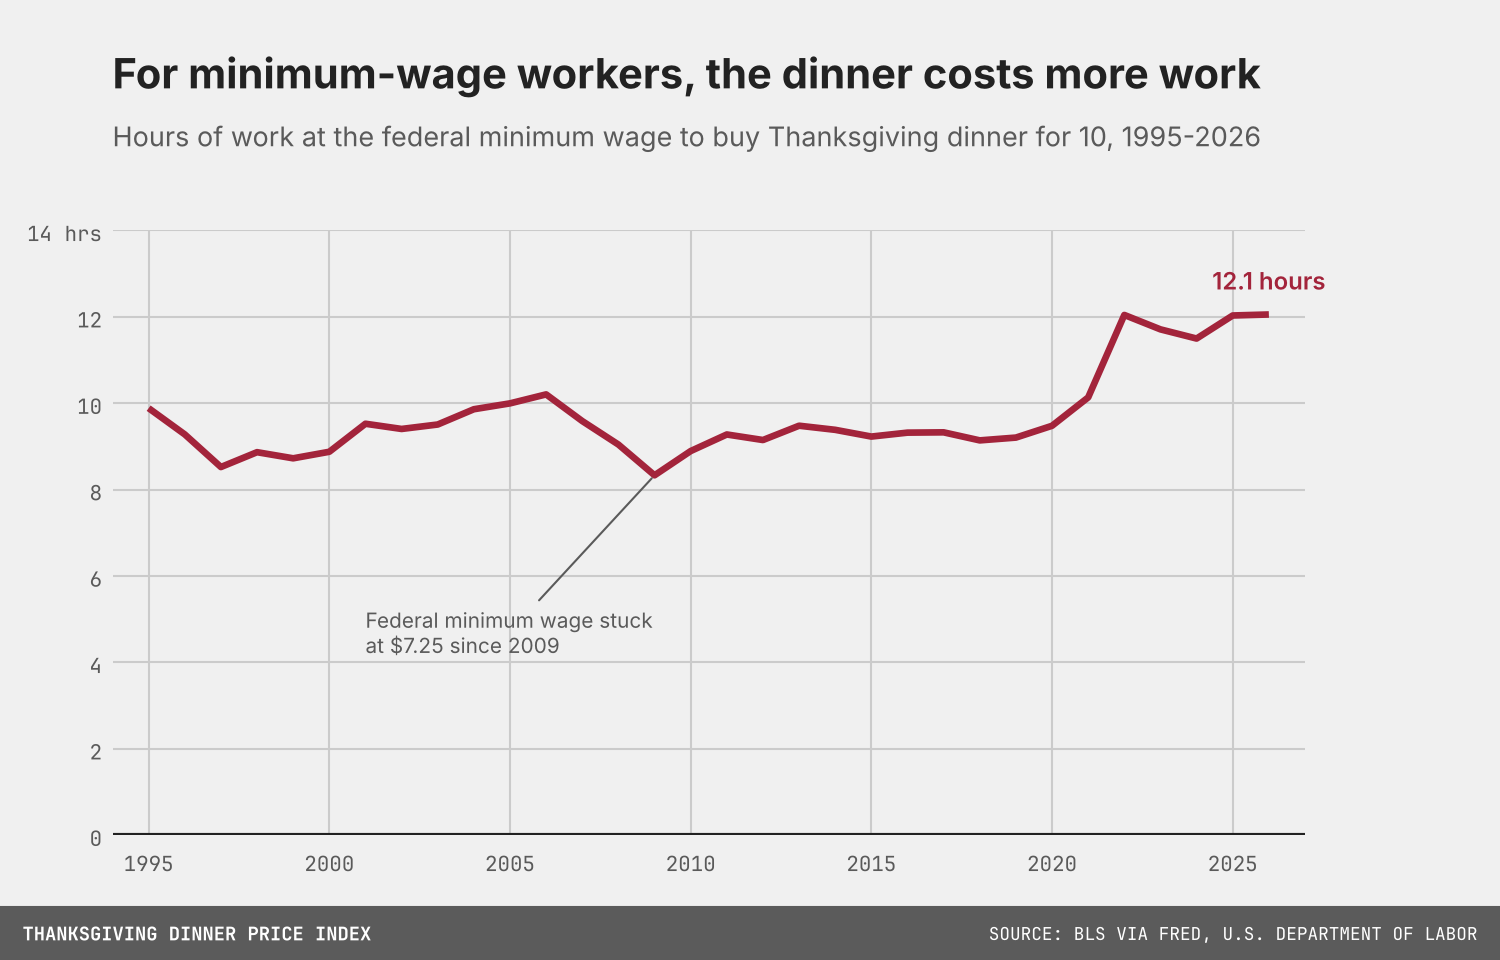
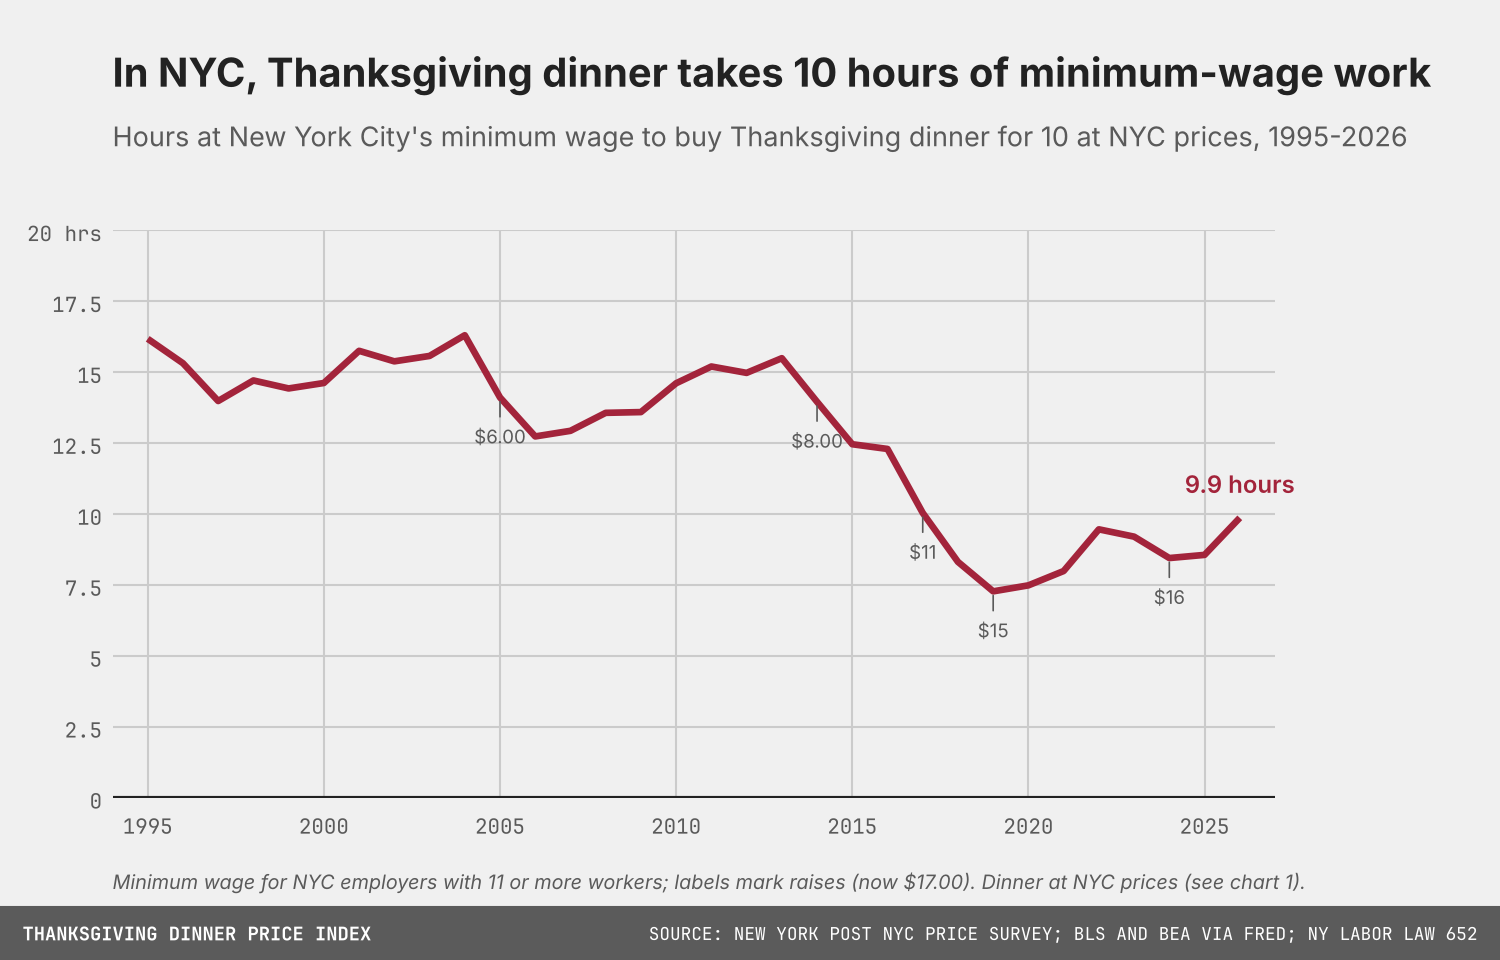
Chart 7: hours of work at New York City's minimum wage, NYC prices
Reapplies the NYC minimum wage series (federal/NY State rates plus NYC's
2017-2023 schedule under NY Labor Law 652) with the dinner now priced
from the New York Post survey: 9.9 hours in 2026. README updated.

Claude-Session: https://claude.ai/code/session_015UrztArHpAPPRd1ooHHwA1

diff --git a/deep_dive.py b/deep_dive.py
@@ -124,11 +124,25 @@ print(table[[c for c in table.columns if c.startswith("dinner")]].round(1).to_st
 minwage = fred("FEDMINNFRWG", 10)
 wage = pd.DataFrame({"dinner": dinner, "federal_min_wage": minwage.reindex(dinner.index)})
 wage["hours_at_federal_min"] = wage.dinner / wage.federal_min_wage
+# New York City minimum wage in October: the higher of the federal and New York State
+# rates (FRED STTMINWGNY), except 2017-2023, when NYC's rate for employers with 11+ workers
+# (NY Labor Law 652) was above the statewide figure FRED reports: $11 from Dec 31, 2016,
+# $13 from Dec 31, 2017, $15 from Dec 31, 2018. Small NYC employers phased in a year later.
+ny_state = fred("STTMINWGNY", 1)
+NYC_OVERRIDE = {2017: 11.00, 2018: 13.00, 2019: 15.00, 2020: 15.00, 2021: 15.00, 2022: 15.00, 2023: 15.00}
+nyc_min = pd.concat([minwage, ny_state.reindex(minwage.index)], axis=1).max(axis=1)
+for yr, v in NYC_OVERRIDE.items():
+    nyc_min[yr] = v
+wage["nyc_min_wage"] = nyc_min.reindex(wage.index)
+wage["dinner_nyc"] = summary["basket_cost_nyc"].reindex(wage.index)
+wage["hours_at_nyc_min"] = wage.dinner_nyc / wage.nyc_min_wage
 wage.round(2).to_csv(OUT / "deep_dive_wages.csv")
 print("\n== E. Low-wage workers ==")
 print(wage.loc[[1995, 2000, 2005, 2009, 2010, 2015, 2019, 2021, 2022, 2023, 2024, 2025, 2026]].round(2).to_string())
 print("hours at federal minimum, 2026 rank (1 = most hours):",
       int(wage.hours_at_federal_min.rank(ascending=False).loc[2026]), "of", wage.hours_at_federal_min.notna().sum())
+print("hours at NYC minimum, 2026 rank (1 = most hours):",
+      int(wage.hours_at_nyc_min.rank(ascending=False).loc[2026]), "of", wage.hours_at_nyc_min.notna().sum())
 
 # ---------------- F. Prices, rent and the minimum wage ----------------
 cpi_m = fred("CPIAUCSL")
@@ -202,18 +216,23 @@ cs.finish(fig, "The squeeze is widest at the bottom",
           "BLS Consumer Expenditure Survey via FRED", OUT / "6_who_is_squeezed.png",
           note="Right panel omits married couples with young children (much higher incomes and a one-year spike in 2019).")
 
-w = wage.dropna(subset=["hours_at_federal_min"])
-h = w.hours_at_federal_min
+w = wage.dropna(subset=["hours_at_nyc_min"])
+h = w.hours_at_nyc_min
 fig, ax = cs.figure()
-ax.set_ylim(0, 2 * int(np.ceil(h.max() * 1.15 / 2)))
+fig.subplots_adjust(right=0.85)
+ax.set_ylim(0, 2 * int(np.ceil(h.max() * 1.2 / 2)))
 ax.set_xlim(h.index.min() - 1, h.index.max() + 1)
 ax.plot(h.index, h, color=cs.RED)
 ax.annotate(f"{h.iloc[-1]:.1f} hours", (h.index[-1], h.iloc[-1]), xytext=(0, 12), textcoords="offset points",
             ha="center", color=cs.RED, fontweight="semibold")
-ax.annotate("Federal minimum wage stuck\nat $7.25 since 2009", (2009, h[2009]), xytext=(2001, h.max() * 0.35),
-            fontsize=10, color=cs.MUTED, arrowprops=dict(arrowstyle="-", color=cs.MUTED, lw=1))
+# Mark NYC minimum wage steps
+for yr, label in [(2005, "$6.00"), (2014, "$8.00"), (2017, "$11"), (2019, "$15"), (2024, "$16")]:
+    ax.annotate(f"{label}", (yr, h[yr]), xytext=(0, -22), textcoords="offset points", ha="center",
+                fontsize=9, color=cs.MUTED, arrowprops=dict(arrowstyle="-", color=cs.MUTED, lw=0.8))
 cs.baseline(ax, 0)
 cs.unit_on_top(ax, suffix=" hrs")
-cs.finish(fig, "For minimum-wage workers, the dinner costs more work",
-          f"Hours of work at the federal minimum wage to buy Thanksgiving dinner for 10, {h.index.min()}-{h.index.max()}",
-          "BLS via FRED, U.S. Department of Labor", OUT / "7_low_wage.png")
+cs.finish(fig, f"In NYC, Thanksgiving dinner takes {h.iloc[-1]:.0f} hours of minimum-wage work",
+          f"Hours at New York City's minimum wage to buy Thanksgiving dinner for 10 at NYC prices, {h.index.min()}-{h.index.max()}",
+          "New York Post NYC price survey; BLS and BEA via FRED; NY Labor Law 652", OUT / "7_low_wage.png",
+          note=f"Minimum wage for NYC employers with 11 or more workers; labels mark raises (now ${wage.nyc_min_wage.iloc[-1]:.2f}). "
+               "Dinner at NYC prices (see chart 1).")

diff --git a/README.md b/README.md
@@ -28,9 +28,11 @@ backtested time-series and machine-learning models.
 - **After essentials, the dinner takes a bigger bite for every income fifth.** For the
   lowest fifth it is 26.9% of a week's non-essential spending, vs 25.7% in 2019; for the
   second, 18.6% vs 16.7%; for the top fifth, 4.5% vs 4.4%.
-- **Minimum-wage workers lost ground.** At $7.25 since 2009, the federal minimum buys 64%
-  of what it did. The dinner takes 12.1 hours of work, vs 9.2 in 2019, the most in 32
-  years.
+- **In NYC the dinner takes 9.9 hours of minimum-wage work (chart 7).** At New York City's
+  $17 minimum (employers with 11+ workers), the NYC-priced dinner takes 9.9 hours in 2026,
+  up from 7.3 in 2019 and 8.6 in 2025, but below the 12-16 hours of the years before the
+  city's raises began in 2017. At the federal $7.25, unchanged since 2009, the U.S.-priced
+  dinner takes 12.1 hours, the most in 32 years.
 - **Not in annual data:** the November 2025 shutdown delayed or cut SNAP benefits for
   millions of households just before Thanksgiving.
 
@@ -117,7 +119,10 @@ income: hours of work, share of income, and income left after essentials.
   not used. `nyc_item_sources.csv` shows each item's source and compares the Post's
   2025-2026 change with the BLS index change: the Post's are far larger (e.g. milk +50% vs
   +1%), so treat the one-year jump with care. The Post's turkey is a premium brand ($3.99/lb).
-  The affordability charts (4-7) stay on national prices and incomes.
+  Chart 7 uses NYC's minimum wage: the higher of the federal and New York State rates
+  (FRED), with NYC's 2017-2023 rates for employers with 11+ workers from NY Labor Law 652
+  ($11, $13, then $15). The other affordability charts (4-6) stay on national prices and
+  incomes.
 - **Why the full menu:** an earlier nine-item basket came to $61 in 2026, in line with the
   Farm Bureau's $58.63 "classic" menu, but both are spare (one dozen rolls and one pound of
   peas for ten people). The full menu ($87 in 2026) is closer to what a real Thanksgiving
